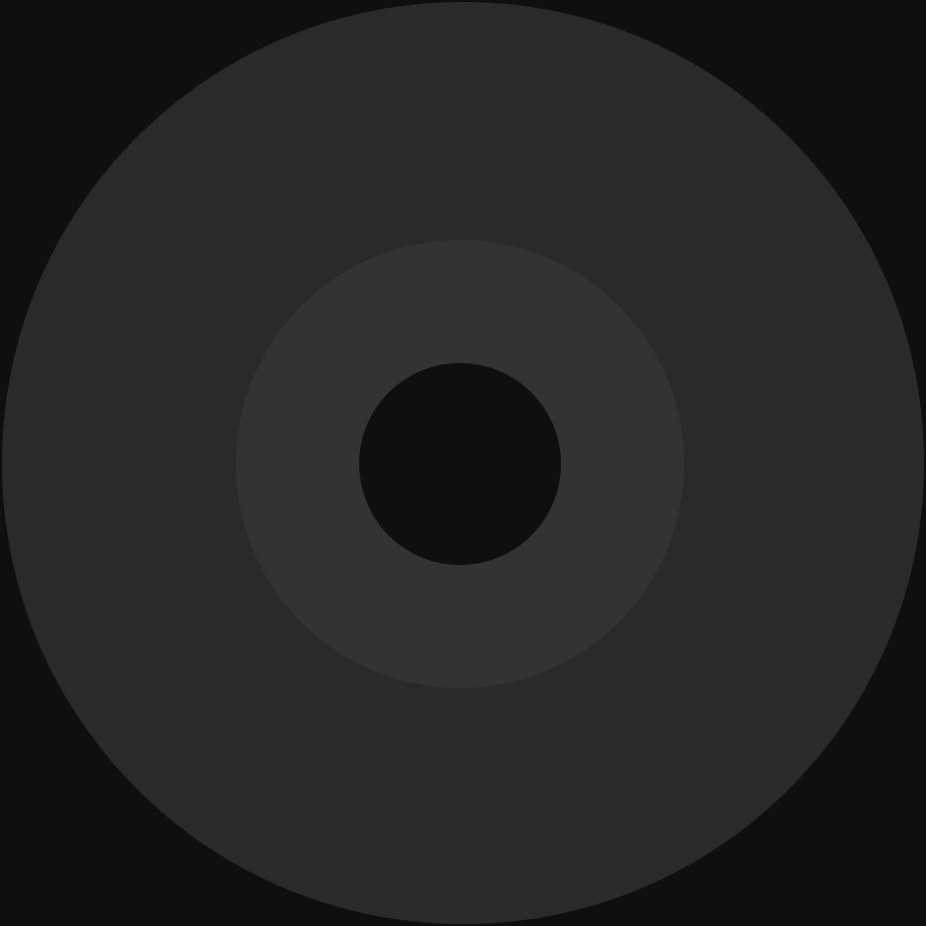
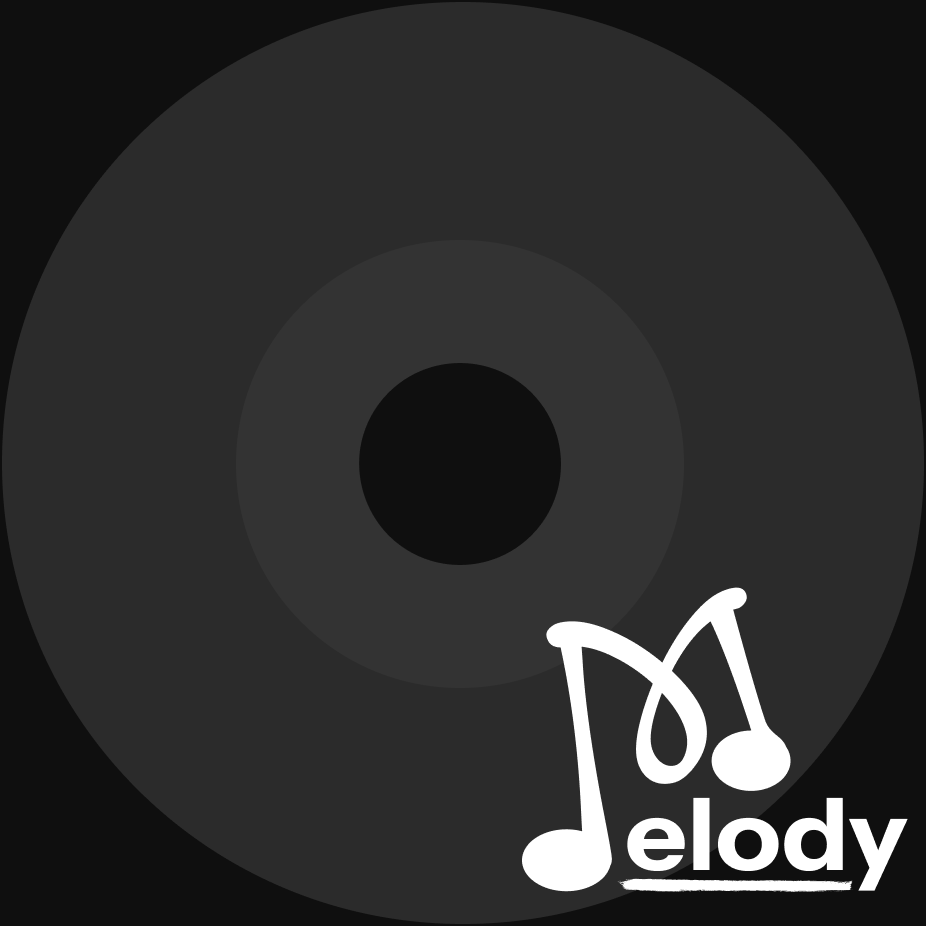
v 0.0.3.5

Changed region(s): [[0.5443, 0.635, 0.9978, 0.9676]]

diff --git a/styles/index.css b/styles/index.css
@@ -31,13 +31,67 @@ main, section {
     width: 950px;
     height: 100%;
     margin: auto;
-    margin-top: 20px;
+    margin-top: 70px;
     border-radius: 20px;
     background-color: var(--background-color);
     padding: 20px;
     box-shadow: rgba(0, 0, 0, 0.25) 0px 54px 55px, rgba(0, 0, 0, 0.12) 0px -12px 30px, rgba(0, 0, 0, 0.12) 0px 4px 6px, rgba(0, 0, 0, 0.17) 0px 12px 13px, rgba(0, 0, 0, 0.09) 0px -3px 5px;
     margin-bottom: 20px;
-}   
+}
+
+header {
+    position: absolute;
+    top: 10px;
+    left: 50%;
+    transform: translateX(-50%);
+    align-items: center;
+    width: 60%;
+    height: 50px;
+    margin-bottom: 20px;
+    background-color: var(--background-color);
+    border-radius: 30px;
+}
+
+nav {
+    display: flex;
+    flex-direction: row;
+    flex-wrap: nowrap;
+    justify-content: space-between;
+    align-items: center;
+    margin: 3px 6px 0 6px;
+}
+
+nav div {
+    display: flex;
+    flex-direction: row;
+    align-items: center;
+    justify-content: center;
+    gap:5px;
+}
+
+nav a {
+    text-decoration: none;
+    color: var(--font-color);
+    font-weight: bold;
+    font-size: 1.2rem;
+    padding: 10px;
+    border-radius: 40px;
+    transition: background-color 0.3s ease;
+
+    &:hover {
+        background-color: var(--button-color);
+        transition: background-color 0.3s ease;
+        cursor: pointer;
+        color: var(--background-color);
+    }
+}
+
+#logo-main {
+    position: absolute;
+    top: 0 ;
+    left: 30px;
+    width: 70px;
+}
 
 main {
     width: 99%;

diff --git a/index.html b/index.html
@@ -4,17 +4,29 @@
     <meta charset="UTF-8">
     <meta name="viewport" content="width=device-width, initial-scale=1.0">
     <link href='https://cdnjs.cloudflare.com/ajax/libs/font-awesome/6.5.0/css/all.min.css' rel='stylesheet'/>
+    <link rel="shortcut icon" href="/src/img/logo/favicon.ico" type="image/x-icon">
     <title>Melody | Home</title>
     <link rel="stylesheet" href="/styles/index.css">
 </head>
 <body>
-    <section>
-       
-    </section>
+    <img id="logo-main" src="src/img/logo/melody-logo.svg" alt="main">
+    <header>
+        <nav>
+            <div id="home-melody">
+                <a href="/index.html">Home</a>
+                <a href="/pages/main-page.html">Melody</a>
+            </div>
+            <div class="login-register">
+                <a href="">Login</a>
+                <a href="">Register</a>
+            </div>
+            
+        </nav>
+    </header>
 
     <main>
         <h1>Bienvenido a</h1>
-
+        
         <div class="wave-container">
             <h1 class="wave-text">
                 <span>M</span>

diff --git a/pages/main-page.html b/pages/main-page.html
@@ -4,6 +4,7 @@
     <meta charset="UTF-8">
     <meta name="viewport" content="width=device-width, initial-scale=1.0">
     <link href='https://cdnjs.cloudflare.com/ajax/libs/font-awesome/6.5.0/css/all.min.css' rel='stylesheet'/>
+    <link rel="shortcut icon" href="/src/img/logo/favicon.ico" type="image/x-icon">
     <!-- Idea dependiendo de la cacion en reproduccion cambiar el tituo con el nombre de la cacion -->
     <title>Reproductor Melody</title>
     <link rel="stylesheet" href="../styles/main.css">
